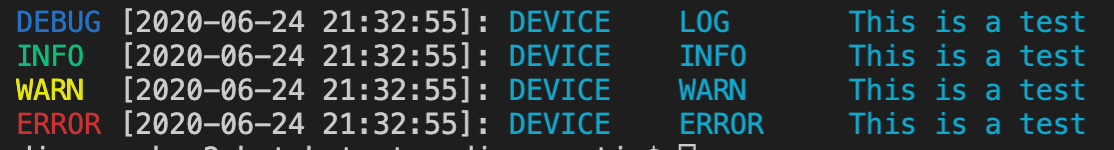
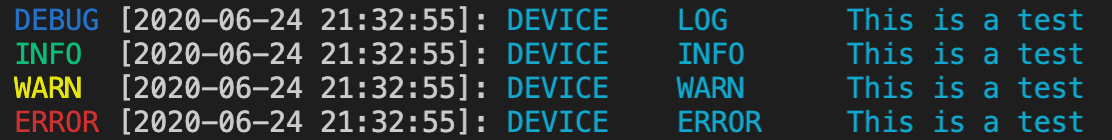
fixes images size

diff --git a/README.md b/README.md
@@ -360,17 +360,17 @@ We use overwritten versions of console log, debug, warn and info functions in co
 
 On this project, calling `console.log` is equivalent to calling `console.debug`, while `trace` and `fatal` are not in use. Here's how a typical log looks:
 
-![](docs/images/pinoJs.png)
+![<img src="docs/images/pinoJs.png" width="50%">](docs/images/pinoJs.png)
 
 To set a log level, simply set the following env variable: `echo LOG_LEVEL=debug`. If not set, `info` is assumed.
 
 We can also colorize the outputs by setting the env variable `COLORIZE`.
 
-![](docs/images/pinoJsColorized.png)
+![<img src="docs/images/pinoJsColorized.png" width="50%">](docs/images/pinoJsColorized.png)
 
 Finally, we can add timestamps to the outputs by setting the env variable `DISPLAY_LOG_TIME`.
 
-![](docs/images/pinoJsTimestamp.png)
+![<img src="docs/images/pinoJsTimestamp.png" width="50%">](docs/images/pinoJsTimestamp.png)
 
 ## **DataDog Configuration**
 Follow [this guide](./docs/datadog#how-to-signup-and-get-an-api-key) to get started.
